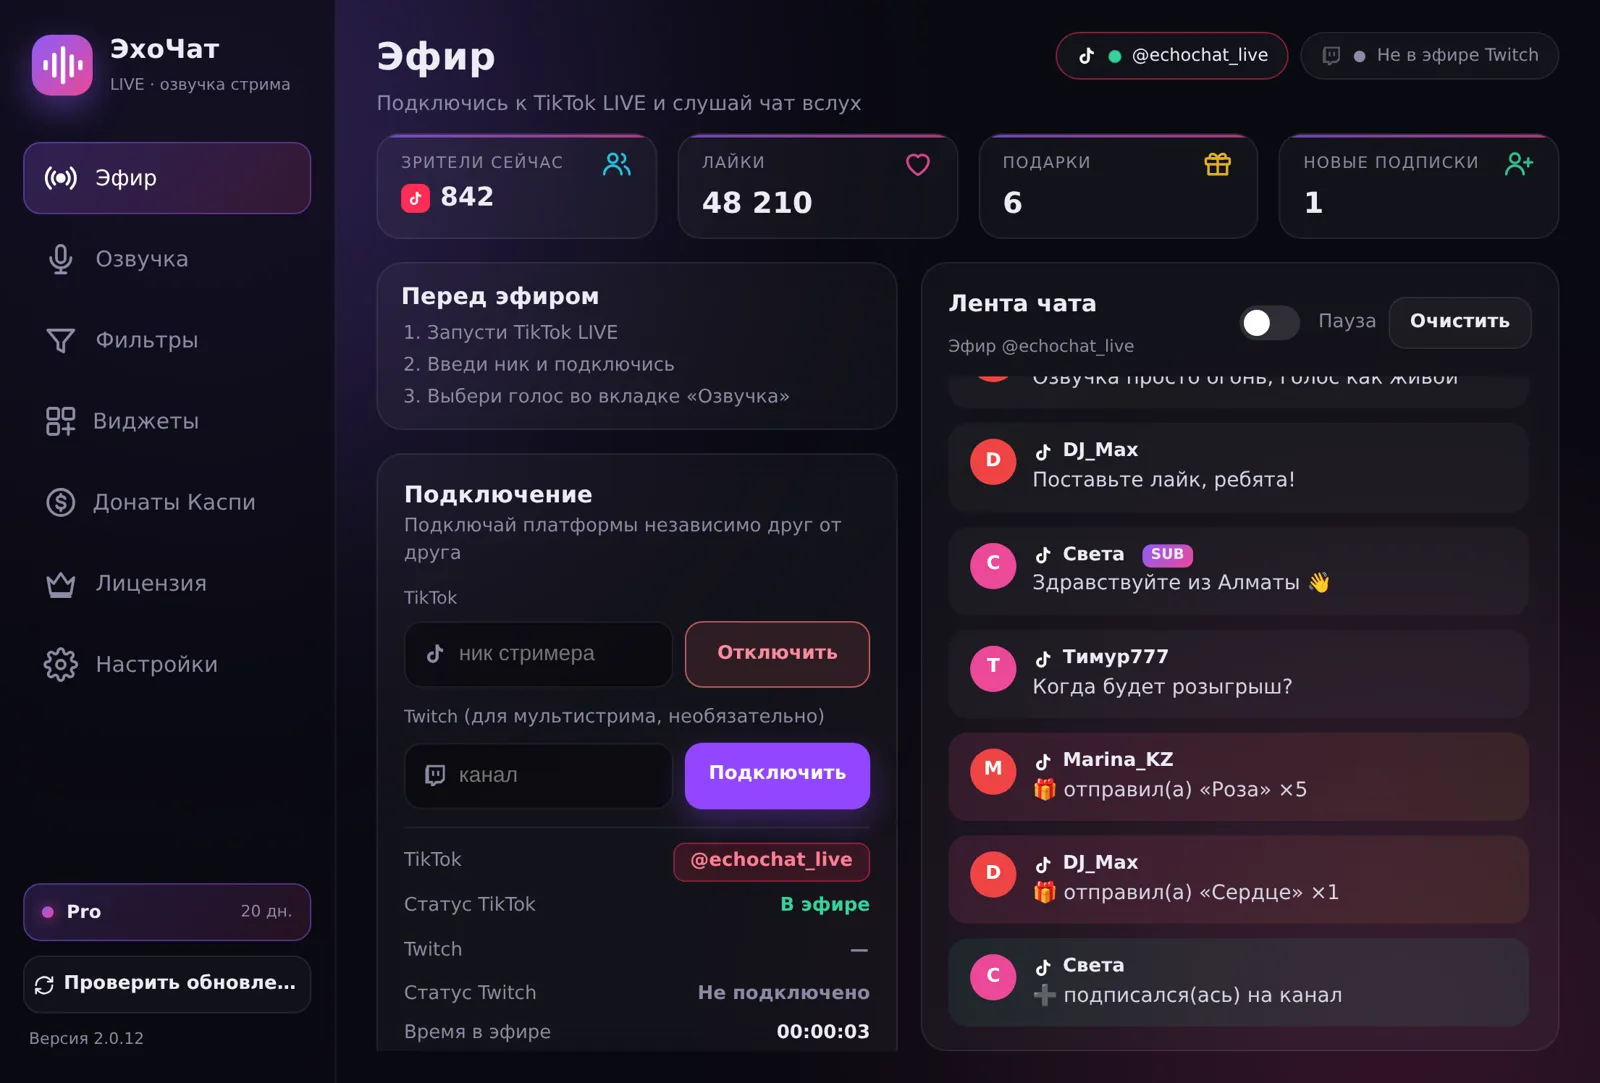
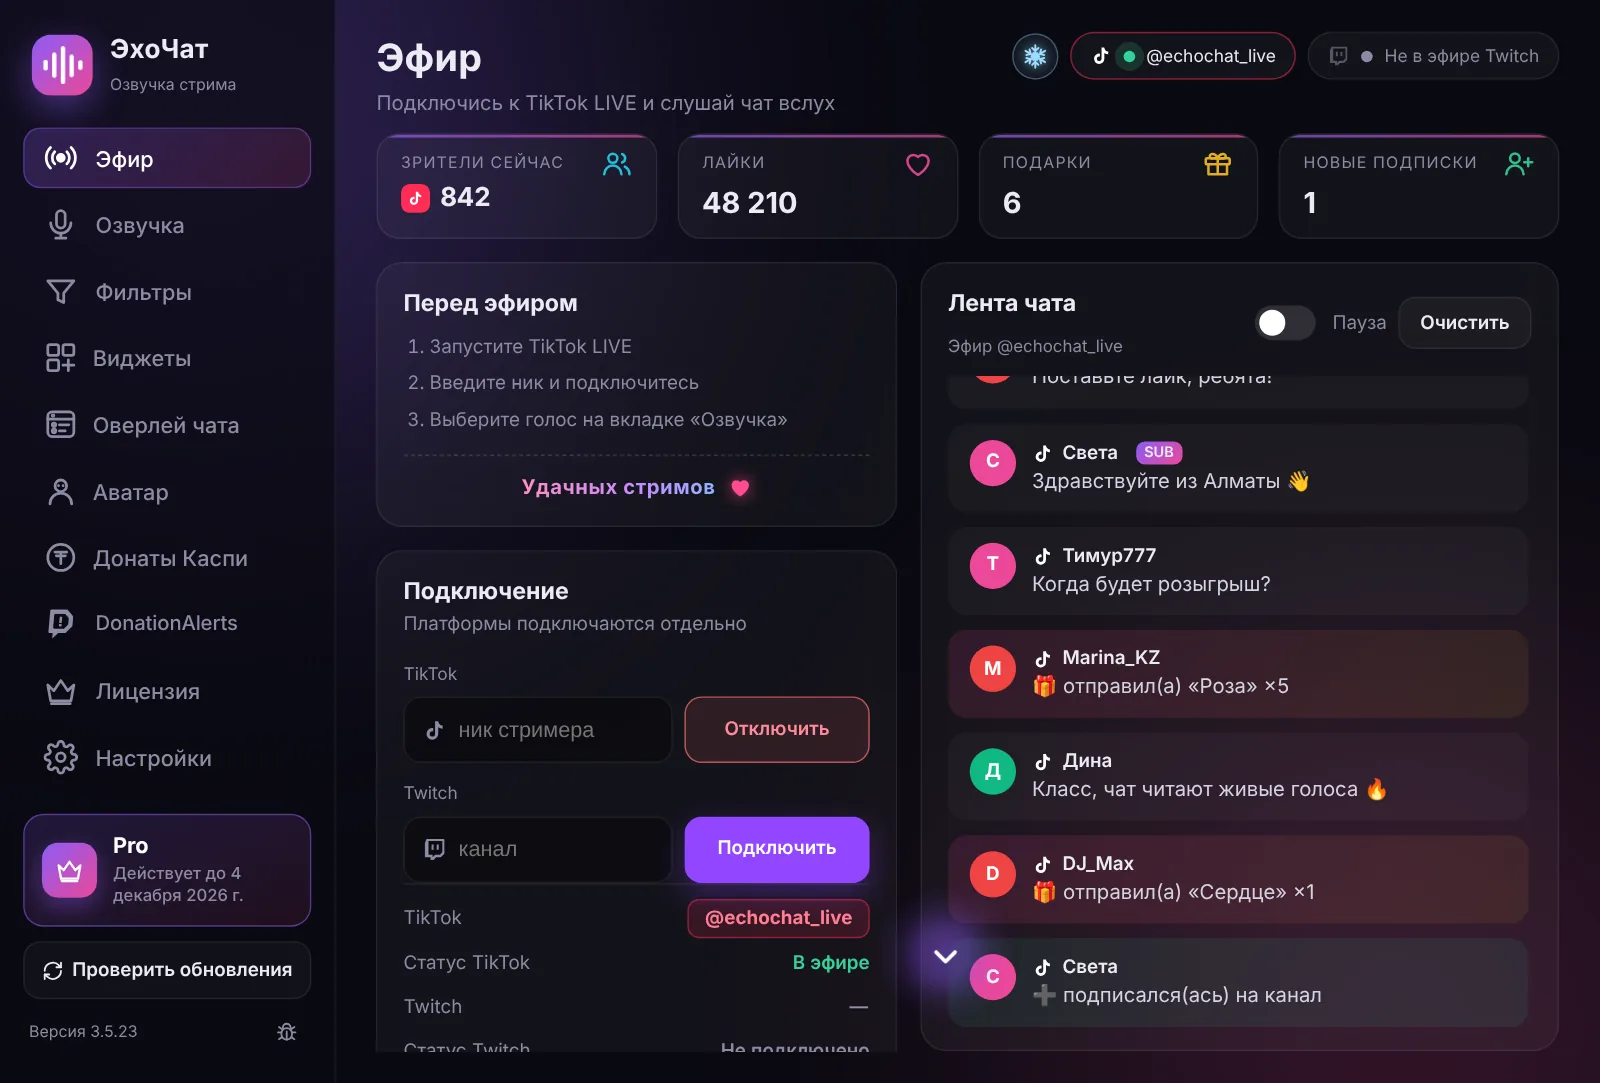
Сайт: блок «Как выглядит приложение» — новые скрины (3.5.23), вкладки Топ лайков, Топ подарков, Оверлей чата, Аватар, DonationAlerts, Настройки; виджеты с круглыми аватарками
Claude-Session: https://claude.ai/code/session_01Qb7cY8VkTLqghtrGbJJ112

diff --git a/docs/index.html b/docs/index.html
@@ -430,7 +430,7 @@ footer a{color:var(--muted)}
 <h2>Как выглядит приложение</h2>
 <p class="sub2">Настоящие экраны ЭхоЧат LIVE.</p>
 <div class="tabs" id="tabs">
-<button class="on" data-i="0">Эфир</button><button data-i="1">Озвучка</button><button data-i="2">Фильтры</button><button data-i="3">Виджеты</button><button data-i="4">Донаты</button><button data-i="5">Тарифы</button>
+<button class="on" data-i="0">Эфир</button><button data-i="1">Озвучка</button><button data-i="2">Фильтры</button><button data-i="3">Виджеты</button><button data-i="4">Топ лайков</button><button data-i="5">Топ подарков</button><button data-i="6">Оверлей чата</button><button data-i="7">Аватар</button><button data-i="8">Донаты Каспи</button><button data-i="9">DonationAlerts</button><button data-i="10">Лицензия</button><button data-i="11">Настройки</button>
 </div>
 <div class="shot"><div class="tb"><img src="img/icon.png" alt="">ЭхоЧат LIVE</div><img class="pic" id="pic" src="img/live.webp" alt="Вкладка «Эфир»" width="1600" height="1083"></div>
 <p class="cap" id="cap"></p>
@@ -549,9 +549,9 @@ Array.prototype.forEach.call($('fl').children,function(b){
 });
 
 /* screenshots */
-var S=[['live','Эфир','Лента чата, счётчики зрителей, лайков и подарков'],['voice','Озвучка','Выбор голоса для каждой платформы'],['filters','Фильтры','Что голос читает вслух, а что пропускает'],['widgets','Виджеты','Чат для OBS и TikTok LIVE Studio с живым предпросмотром'],['kaspi','Донаты','Донаты Каспи на экране: подключение iPhone, журнал уведомлений и виджет'],['plans','Тарифы','Lite, Pro и партнёрская лицензия']];
+var S=[['live','Эфир','Лента чата, счётчики зрителей, лайков и подарков'],['voice','Озвучка','Выбор голоса для каждой платформы'],['filters','Фильтры','Что голос читает вслух, а что пропускает'],['widgets','Виджеты','Чат для OBS и TikTok LIVE Studio с живым предпросмотром'],['likes','Топ лайков','Лучшие зрители по лайкам: квадратные или круглые аватарки на выбор'],['gifts','Топ подарков','Кто отправил больше всего монет: список с круглыми или квадратными аватарками'],['overlay','Оверлей чата','Окно чата TikTok и Twitch поверх всех окон, прозрачность и горячие клавиши'],['avatar','Аватар','2D- и 3D-персонаж, который повторяет ваше лицо с веб-камеры'],['kaspi','Донаты Каспи','Донаты Каспи на экране: подключение iPhone по QR, видеоинструкция и виджет'],['da','DonationAlerts','Донаты DonationAlerts: вход в один клик, шаблоны, картинка и звук'],['plans','Лицензия','Тариф, ключ и срок действия, а ниже Lite, Pro и партнёрская лицензия'],['settings','Настройки','Окно и трей, автозапуск с Windows и обновления']];
 var pic=$('pic'),cap=$('cap'),btns=document.querySelectorAll('#tabs button');
-function show(i){pic.src='img/'+S[i][0]+'.webp';pic.alt='Вкладка «'+S[i][1]+'»';cap.textContent=S[i][2];btns.forEach(function(b,j){b.classList.toggle('on',j===i)})}
+function show(i){pic.src='img/'+S[i][0]+'.webp?v=3523';pic.alt='Вкладка «'+S[i][1]+'»';cap.textContent=S[i][2];btns.forEach(function(b,j){b.classList.toggle('on',j===i)})}
 btns.forEach(function(b){b.addEventListener('click',function(){show(+b.dataset.i)})});
 show(0);
 })();
